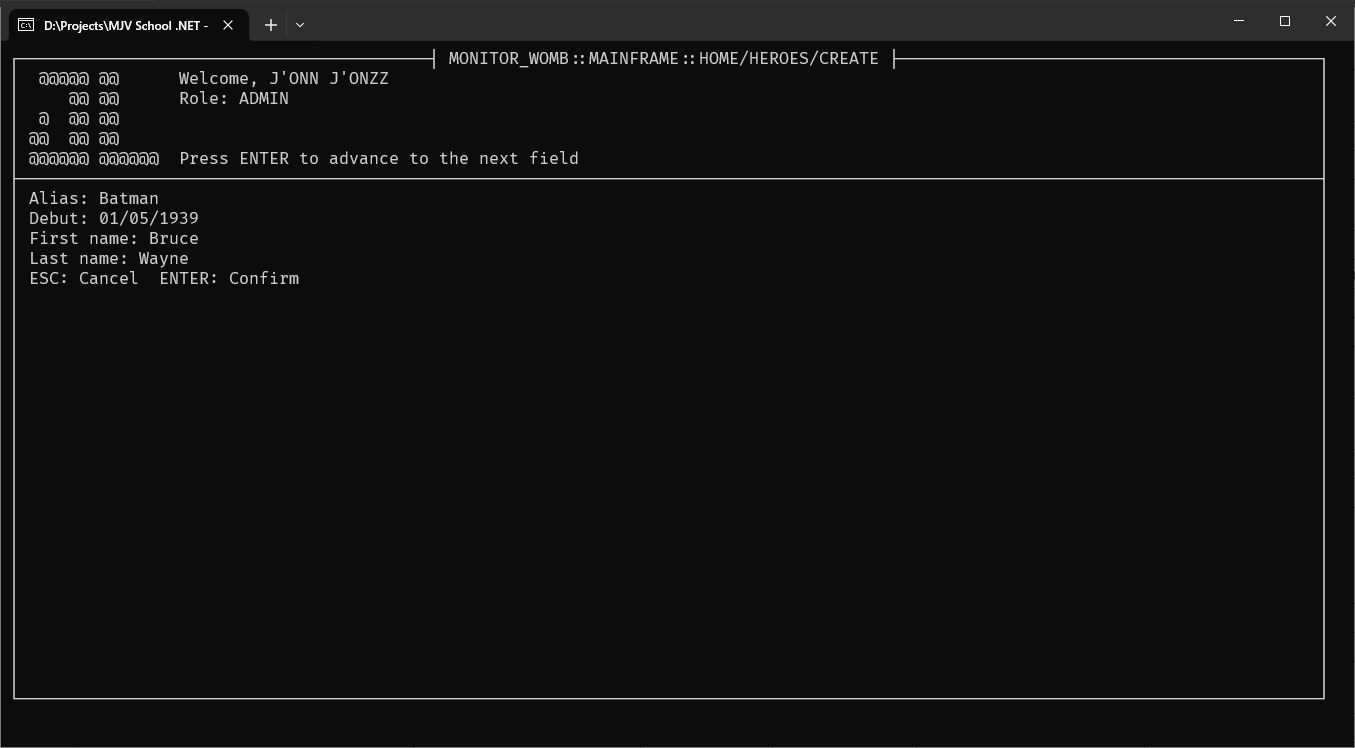
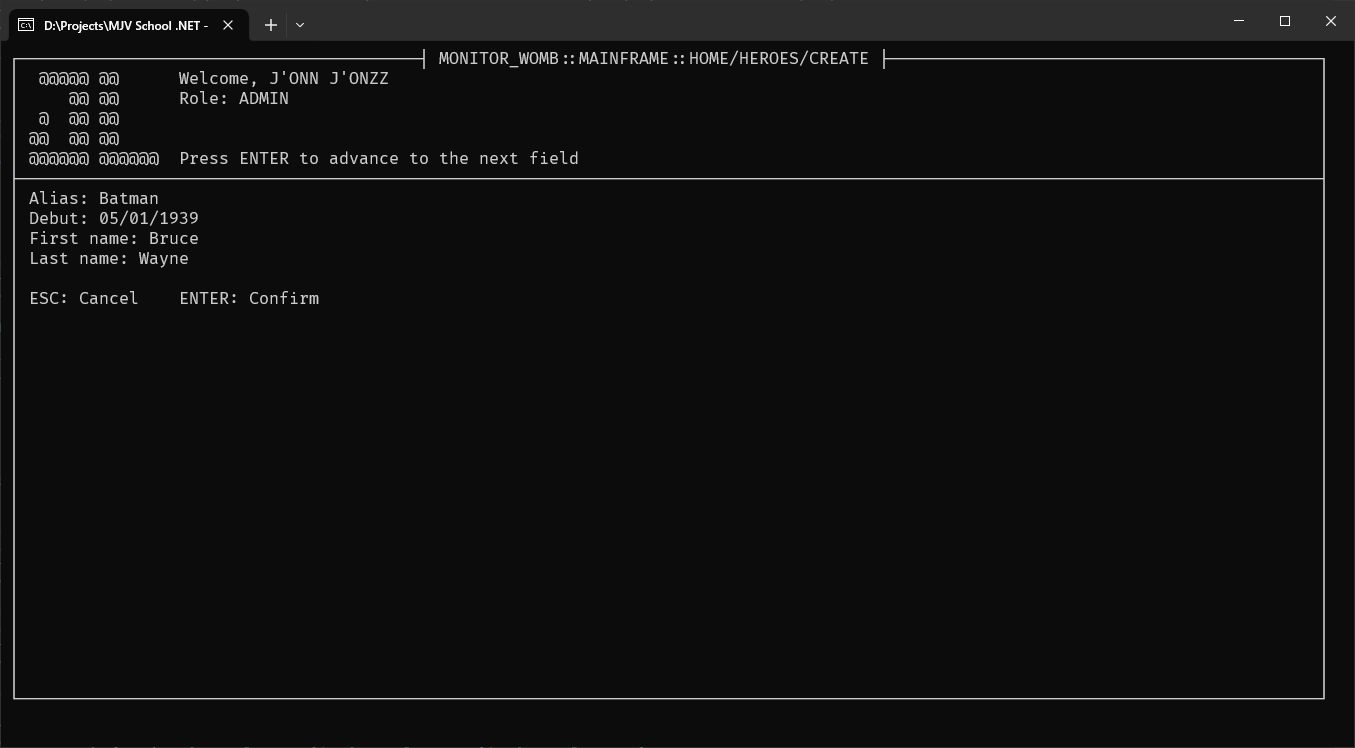
Insira uma linha entre os problemas de validação e os prompts

diff --git a/src/CrudDaJustica.Cli.Lib/Forms/Form.cs b/src/CrudDaJustica.Cli.Lib/Forms/Form.cs
@@ -180,17 +180,22 @@ public class Form<T> : Frame where T : new()
 	// Summary: Displays each validation problem in a different line.
 	private bool DisplayValidationProblems()
 	{
-		DrawVerticalBorders(string.Empty, Console.WriteLine);
 
 		var validationProblems = validationProblemsRetriver.Invoke(FormData);
-		foreach (var validationProblem in validationProblems)
+		var hasValidationProblems = false;
+
+		if (hasValidationProblems = validationProblems.Any())
 		{
-			var formattedValidationProblem = string.Format(" {0} ", validationProblem);
-			DrawVerticalBorders(formattedValidationProblem, Console.WriteLine);
+			DrawVerticalBorders(string.Empty, Console.WriteLine); // Empty line between fields and validation problems
+
+			foreach (var validationProblem in validationProblems)
+			{
+				var formattedValidationProblem = string.Format(" {0} ", validationProblem);
+				DrawVerticalBorders(formattedValidationProblem, Console.WriteLine);
+			}
 		}
 		
-		DrawVerticalBorders(string.Empty, Console.WriteLine);
-		return validationProblems.Any();
+		return hasValidationProblems;
 	}
 
 	// Summary: Prompts the user to try again or to discard the data entered in the form.
@@ -205,6 +210,8 @@ public class Form<T> : Frame where T : new()
 	//			If firstKey is pressed then invokes the actions associated with the second and third keys, respectively.
 	private void DisplayPrompt(Keybinding firstKey, Keybinding secondKey, Keybinding thirdKey)
 	{
+		DrawVerticalBorders(string.Empty, Console.WriteLine); // Empty line between previous content and prompt
+
 		var prompt = string.Format(" {0}    {1} ", exitKey, firstKey);
 		DrawVerticalBorders(prompt, Console.WriteLine);
 
